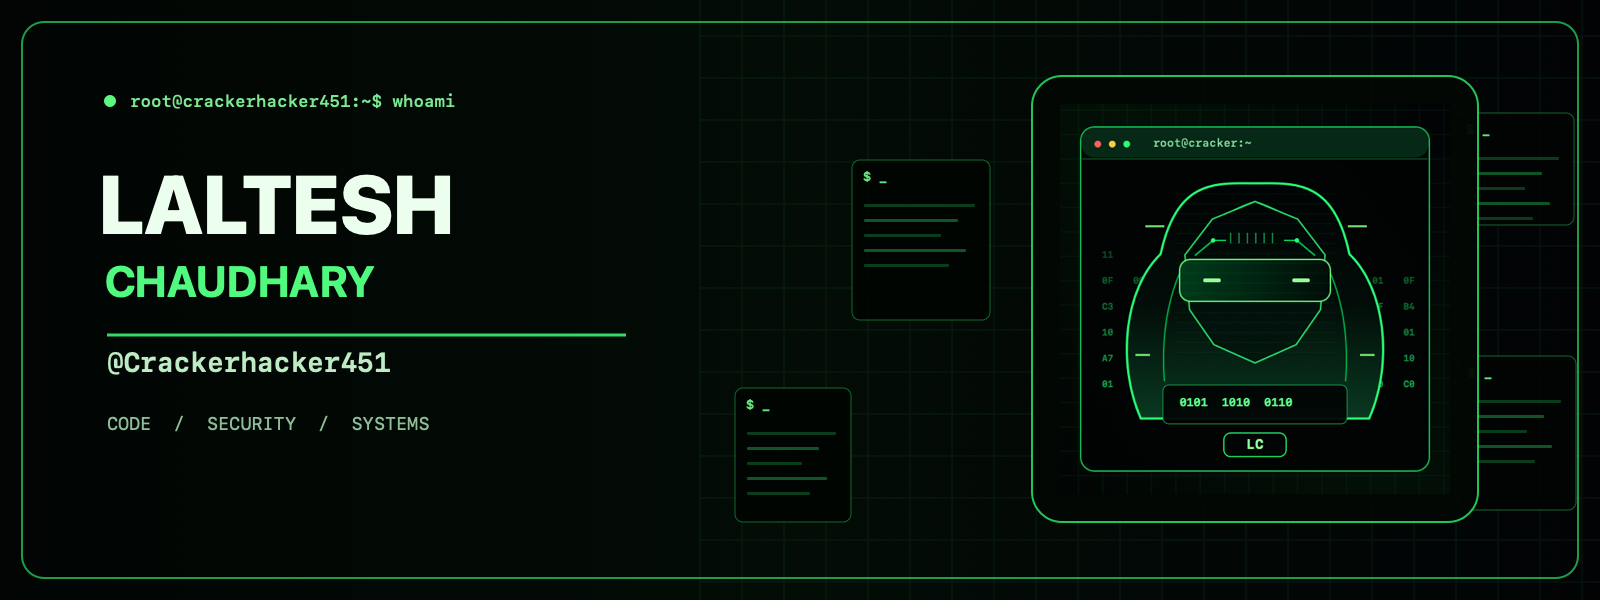
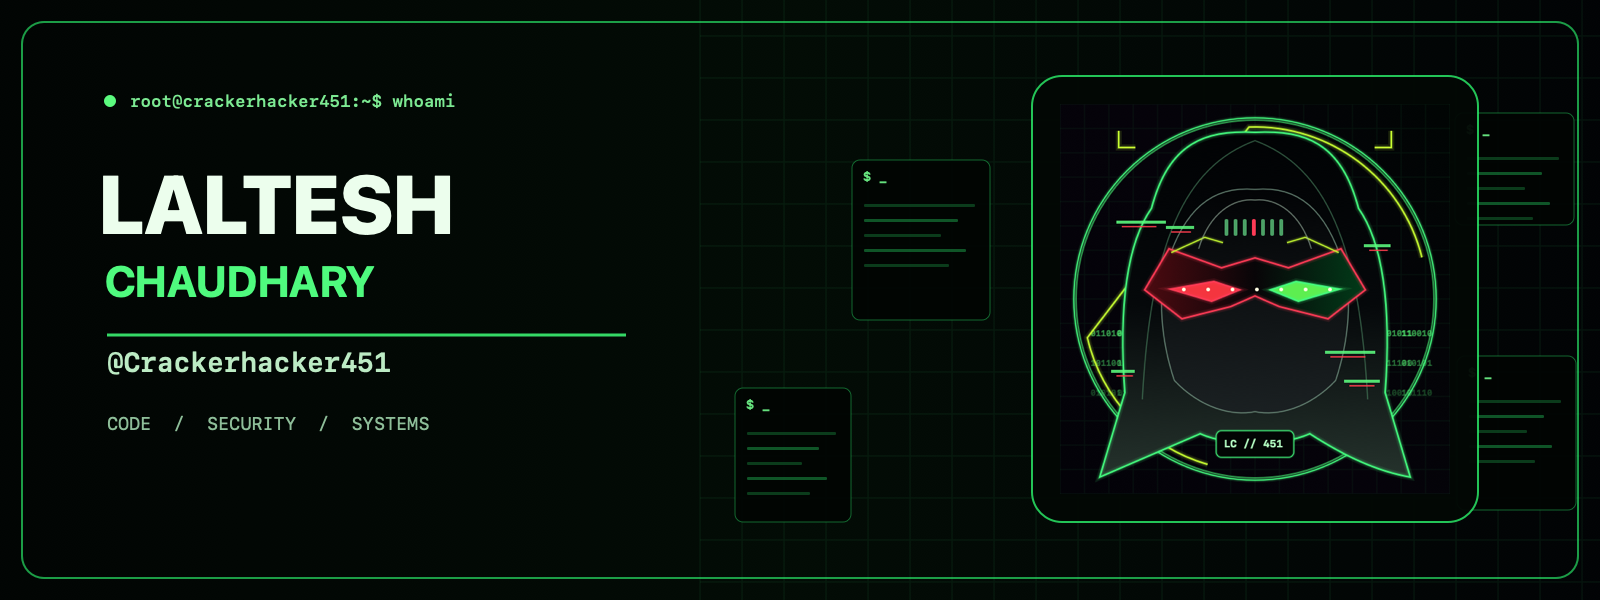
Redesign profile as a glitch hacker identity

Changed region(s): [[0.6562, 0.18, 0.9062, 0.81]]

diff --git a/generate-profile-banner.swift b/generate-profile-banner.swift
@@ -33,6 +33,12 @@ func fill(_ path: NSBezierPath, color: NSColor) {
     path.fill()
 }
 
+func neonStroke(_ path: NSBezierPath, color: NSColor, width: CGFloat) {
+    stroke(path, color: color.withAlphaComponent(0.12), width: width * 4)
+    stroke(path, color: color.withAlphaComponent(0.24), width: width * 2)
+    stroke(path, color: color, width: width)
+}
+
 func drawAvatar() -> NSBitmapImageRep {
     let size = 512
     guard let bitmap = NSBitmapImageRep(
@@ -53,155 +59,183 @@ func drawAvatar() -> NSBitmapImageRep {
     NSGraphicsContext.saveGraphicsState()
     NSGraphicsContext.current = context
     let canvas = NSRect(x: 0, y: 0, width: size, height: size)
-    NSGradient(colors: [color(0.008, 0.025, 0.018), color(0.012, 0.055, 0.03), color(0.005, 0.012, 0.02)])!
-        .draw(in: canvas, angle: 35)
+    NSGradient(colors: [color(0.014, 0.01, 0.035), color(0.025, 0.012, 0.04), color(0.004, 0.025, 0.018)])!
+        .draw(in: canvas, angle: 32)
 
-    let green = color(0.18, 1, 0.38)
-    let dimGreen = color(0.12, 0.62, 0.27, 0.7)
+    let green = color(0.25, 1, 0.42)
+    let acid = color(0.73, 1, 0.15)
+    let red = color(1, 0.12, 0.27)
+
     let grid = NSBezierPath()
     grid.lineWidth = 1
-    for x in stride(from: 24, through: size, by: 32) {
+    for x in stride(from: 0, through: size, by: 32) {
         grid.move(to: NSPoint(x: x, y: 0))
         grid.line(to: NSPoint(x: x, y: size))
     }
-    for y in stride(from: 24, through: size, by: 32) {
+    for y in stride(from: 0, through: size, by: 32) {
         grid.move(to: NSPoint(x: 0, y: y))
         grid.line(to: NSPoint(x: size, y: y))
     }
-    stroke(grid, color: color(0.1, 0.65, 0.25, 0.12), width: 1)
+    stroke(grid, color: color(0.16, 0.72, 0.29, 0.1), width: 1)
 
-    let terminal = NSBezierPath(roundedRect: NSRect(x: 27, y: 30, width: 458, height: 452), xRadius: 18, yRadius: 18)
-    fill(terminal, color: color(0.005, 0.018, 0.014, 0.94))
-    stroke(terminal, color: color(0.15, 0.92, 0.34, 0.75), width: 2)
-    let titleBar = NSBezierPath(roundedRect: NSRect(x: 28, y: 442, width: 456, height: 39), xRadius: 17, yRadius: 17)
-    fill(titleBar, color: color(0.035, 0.12, 0.07))
-    let divider = NSBezierPath()
-    divider.move(to: NSPoint(x: 29, y: 440))
-    divider.line(to: NSPoint(x: 483, y: 440))
-    stroke(divider, color: color(0.15, 0.82, 0.3, 0.56), width: 1)
-
-    for (index, dotColor) in [color(1, 0.28, 0.25), color(1, 0.76, 0.2), green].enumerated() {
-        let dot = NSBezierPath(ovalIn: NSRect(x: 45 + index * 19, y: 455, width: 9, height: 9))
-        fill(dot, color: dotColor)
-    }
-    let terminalTitle = "root@cracker:~" as NSString
-    terminalTitle.draw(
-        at: NSPoint(x: 122, y: 452),
-        withAttributes: [
-            .font: NSFont.monospacedSystemFont(ofSize: 15, weight: .medium),
-            .foregroundColor: color(0.46, 0.86, 0.54)
-        ]
-    )
-
-    let rainColumns: [(CGFloat, [String])] = [
-        (55, ["01", "A7", "10", "C3", "0F", "11"]),
-        (96, ["F0", "01", "7B", "10", "00"]),
-        (410, ["10", "E1", "0A", "FF", "01"]),
-        (451, ["C0", "10", "01", "B4", "0F"])
+    let rain = [
+        (CGFloat(40), "010101 101100 011010"),
+        (CGFloat(448), "101110 010101 110010"),
+        (CGFloat(75), "011001 100101 011101"),
+        (CGFloat(422), "110010 011100 101011")
     ]
-    for (columnX, items) in rainColumns {
-        for (index, text) in items.enumerated() {
-            let glyph = text as NSString
+    for (column, text) in rain {
+        for row in 0..<3 {
+            let glyph = String(text.dropFirst(row * 7).prefix(6)) as NSString
             glyph.draw(
-                at: NSPoint(x: columnX, y: 137 + CGFloat(index) * 34),
+                at: NSPoint(x: column, y: 126 + CGFloat(row) * 39),
                 withAttributes: [
-                    .font: NSFont.monospacedSystemFont(ofSize: 12, weight: .bold),
-                    .foregroundColor: color(0.15, 0.9, 0.34, max(0.16, 0.64 - CGFloat(index) * 0.07))
+                    .font: NSFont.monospacedSystemFont(ofSize: 11, weight: .bold),
+                    .foregroundColor: color(0.3, 1, 0.39, 0.24 + CGFloat(row) * 0.16)
                 ]
             )
         }
     }
 
+    let frame = NSBezierPath(ovalIn: NSRect(x: 21, y: 21, width: 470, height: 470))
+    stroke(frame, color: color(0.27, 1, 0.4, 0.58), width: 2)
+    let brokenRing = NSBezierPath()
+    brokenRing.appendArc(withCenter: NSPoint(x: 256, y: 256), radius: 226, startAngle: 14, endAngle: 92)
+    brokenRing.appendArc(withCenter: NSPoint(x: 256, y: 256), radius: 226, startAngle: 193, endAngle: 254)
+    neonStroke(brokenRing, color: acid, width: 2)
+
+    let outerRing = NSBezierPath(ovalIn: NSRect(x: 18, y: 18, width: 476, height: 476))
+    neonStroke(outerRing, color: green, width: 1.5)
+
     let hood = NSBezierPath()
-    hood.move(to: NSPoint(x: 106, y: 99))
-    hood.curve(to: NSPoint(x: 132, y: 315), controlPoint1: NSPoint(x: 73, y: 175), controlPoint2: NSPoint(x: 86, y: 271))
-    hood.curve(to: NSPoint(x: 256, y: 408), controlPoint1: NSPoint(x: 154, y: 414), controlPoint2: NSPoint(x: 204, y: 408))
-    hood.curve(to: NSPoint(x: 380, y: 315), controlPoint1: NSPoint(x: 308, y: 408), controlPoint2: NSPoint(x: 359, y: 414))
-    hood.curve(to: NSPoint(x: 406, y: 99), controlPoint1: NSPoint(x: 426, y: 271), controlPoint2: NSPoint(x: 439, y: 175))
+    hood.move(to: NSPoint(x: 52, y: 22))
+    hood.line(to: NSPoint(x: 85, y: 133))
+    hood.curve(to: NSPoint(x: 120, y: 375), controlPoint1: NSPoint(x: 76, y: 252), controlPoint2: NSPoint(x: 90, y: 333))
+    hood.curve(to: NSPoint(x: 256, y: 475), controlPoint1: NSPoint(x: 143, y: 463), controlPoint2: NSPoint(x: 192, y: 478))
+    hood.curve(to: NSPoint(x: 392, y: 375), controlPoint1: NSPoint(x: 320, y: 478), controlPoint2: NSPoint(x: 369, y: 463))
+    hood.curve(to: NSPoint(x: 427, y: 133), controlPoint1: NSPoint(x: 422, y: 333), controlPoint2: NSPoint(x: 436, y: 252))
+    hood.line(to: NSPoint(x: 460, y: 22))
+    hood.curve(to: NSPoint(x: 328, y: 79), controlPoint1: NSPoint(x: 415, y: 30), controlPoint2: NSPoint(x: 373, y: 50))
+    hood.curve(to: NSPoint(x: 184, y: 79), controlPoint1: NSPoint(x: 290, y: 62), controlPoint2: NSPoint(x: 222, y: 62))
     hood.close()
-    NSGradient(colors: [color(0.045, 0.17, 0.095), color(0.012, 0.045, 0.035), color(0.004, 0.017, 0.018)])!
+    NSGradient(colors: [color(0.11, 0.15, 0.13), color(0.025, 0.035, 0.04), color(0.005, 0.012, 0.02)])!
         .draw(in: hood, angle: 90)
-    stroke(hood, color: green, width: 3)
+    neonStroke(hood, color: green, width: 2)
 
-    let innerHood = NSBezierPath()
-    innerHood.move(to: NSPoint(x: 137, y: 148))
-    innerHood.curve(to: NSPoint(x: 256, y: 384), controlPoint1: NSPoint(x: 128, y: 267), controlPoint2: NSPoint(x: 174, y: 360))
-    innerHood.curve(to: NSPoint(x: 375, y: 148), controlPoint1: NSPoint(x: 338, y: 360), controlPoint2: NSPoint(x: 384, y: 267))
-    stroke(innerHood, color: color(0.1, 0.8, 0.27, 0.76), width: 2)
+    let shoulderSeam = NSBezierPath()
+    shoulderSeam.move(to: NSPoint(x: 108, y: 124))
+    shoulderSeam.curve(to: NSPoint(x: 256, y: 464), controlPoint1: NSPoint(x: 119, y: 332), controlPoint2: NSPoint(x: 164, y: 430))
+    shoulderSeam.curve(to: NSPoint(x: 404, y: 124), controlPoint1: NSPoint(x: 348, y: 430), controlPoint2: NSPoint(x: 393, y: 332))
+    stroke(shoulderSeam, color: color(0.28, 0.55, 0.37, 0.55), width: 1.5)
 
-    let face = polygon([
-        NSPoint(x: 164, y: 314), NSPoint(x: 170, y: 242), NSPoint(x: 202, y: 196),
-        NSPoint(x: 256, y: 172), NSPoint(x: 310, y: 196), NSPoint(x: 342, y: 242),
-        NSPoint(x: 348, y: 314), NSPoint(x: 312, y: 361), NSPoint(x: 256, y: 384),
-        NSPoint(x: 200, y: 361)
-    ])
-    NSGradient(colors: [color(0.018, 0.07, 0.05), color(0.003, 0.018, 0.018)])!
+    let face = NSBezierPath()
+    face.move(to: NSPoint(x: 150, y: 149))
+    face.curve(to: NSPoint(x: 140, y: 301), controlPoint1: NSPoint(x: 131, y: 206), controlPoint2: NSPoint(x: 129, y: 263))
+    face.curve(to: NSPoint(x: 256, y: 400), controlPoint1: NSPoint(x: 162, y: 371), controlPoint2: NSPoint(x: 197, y: 405))
+    face.curve(to: NSPoint(x: 372, y: 301), controlPoint1: NSPoint(x: 315, y: 405), controlPoint2: NSPoint(x: 350, y: 371))
+    face.curve(to: NSPoint(x: 362, y: 149), controlPoint1: NSPoint(x: 383, y: 263), controlPoint2: NSPoint(x: 381, y: 206))
+    face.curve(to: NSPoint(x: 256, y: 108), controlPoint1: NSPoint(x: 327, y: 112), controlPoint2: NSPoint(x: 285, y: 102))
+    face.curve(to: NSPoint(x: 150, y: 149), controlPoint1: NSPoint(x: 227, y: 102), controlPoint2: NSPoint(x: 185, y: 112))
+    face.close()
+    NSGradient(colors: [color(0.08, 0.095, 0.1), color(0.012, 0.018, 0.027)])!
         .draw(in: face, angle: 90)
-    stroke(face, color: color(0.2, 1, 0.4, 0.86), width: 2)
+    stroke(face, color: color(0.42, 0.57, 0.48, 0.75), width: 1.5)
 
-    let mask = NSBezierPath(roundedRect: NSRect(x: 157, y: 253, width: 198, height: 55), xRadius: 14, yRadius: 14)
-    NSGradient(colors: [color(0.02, 0.18, 0.08), color(0.005, 0.045, 0.035)])!.draw(in: mask, angle: 0)
-    stroke(mask, color: color(0.36, 1, 0.42, 0.9), width: 2)
+    let brow = NSBezierPath()
+    brow.move(to: NSPoint(x: 153, y: 271))
+    brow.curve(to: NSPoint(x: 359, y: 271), controlPoint1: NSPoint(x: 208, y: 307), controlPoint2: NSPoint(x: 304, y: 307))
+    stroke(brow, color: color(0.52, 0.65, 0.52, 0.46), width: 1.5)
 
-    for (x, y) in [(188.0, 278.0), (305.0, 278.0)] {
-        let eye = NSBezierPath(roundedRect: NSRect(x: x, y: y, width: 23, height: 5), xRadius: 2, yRadius: 2)
-        fill(eye, color: color(0.54, 1, 0.53))
+    let visor = NSBezierPath()
+    visor.move(to: NSPoint(x: 111, y: 268))
+    visor.line(to: NSPoint(x: 160, y: 230))
+    visor.line(to: NSPoint(x: 224, y: 246))
+    visor.line(to: NSPoint(x: 256, y: 260))
+    visor.line(to: NSPoint(x: 288, y: 246))
+    visor.line(to: NSPoint(x: 352, y: 230))
+    visor.line(to: NSPoint(x: 401, y: 268))
+    visor.line(to: NSPoint(x: 369, y: 322))
+    visor.line(to: NSPoint(x: 300, y: 297))
+    visor.line(to: NSPoint(x: 256, y: 310))
+    visor.line(to: NSPoint(x: 212, y: 297))
+    visor.line(to: NSPoint(x: 143, y: 322))
+    visor.close()
+    NSGradient(colors: [color(0.23, 0.025, 0.055), color(0.035, 0.025, 0.035), color(0.025, 0.18, 0.075)])!
+        .draw(in: visor, angle: 0)
+    neonStroke(visor, color: red, width: 2)
+
+    let leftLens = NSBezierPath()
+    leftLens.move(to: NSPoint(x: 145, y: 269))
+    leftLens.line(to: NSPoint(x: 199, y: 253))
+    leftLens.line(to: NSPoint(x: 236, y: 268))
+    leftLens.line(to: NSPoint(x: 202, y: 279))
+    leftLens.close()
+    fill(leftLens, color: color(1, 0.11, 0.2, 0.95))
+    neonStroke(leftLens, color: red, width: 2)
+
+    let rightLens = NSBezierPath()
+    rightLens.move(to: NSPoint(x: 367, y: 269))
+    rightLens.line(to: NSPoint(x: 313, y: 253))
+    rightLens.line(to: NSPoint(x: 276, y: 268))
+    rightLens.line(to: NSPoint(x: 310, y: 279))
+    rightLens.close()
+    fill(rightLens, color: color(0.34, 1, 0.26, 0.95))
+    neonStroke(rightLens, color: green, width: 2)
+    for x in stride(from: 160.0, through: 352.0, by: 32.0) {
+        let glint = NSBezierPath(ovalIn: NSRect(x: x, y: 266, width: 5, height: 5))
+        fill(glint, color: color(1, 1, 0.86))
     }
-    for x in stride(from: 224.0, through: 289.0, by: 11.0) {
-        let vent = NSBezierPath()
-        vent.move(to: NSPoint(x: x, y: 329))
-        vent.line(to: NSPoint(x: x, y: 343))
-        stroke(vent, color: dimGreen, width: 2)
+
+    let cheekGuard = NSBezierPath()
+    cheekGuard.move(to: NSPoint(x: 146, y: 317))
+    cheekGuard.line(to: NSPoint(x: 190, y: 337))
+    cheekGuard.line(to: NSPoint(x: 214, y: 330))
+    cheekGuard.move(to: NSPoint(x: 366, y: 317))
+    cheekGuard.line(to: NSPoint(x: 322, y: 337))
+    cheekGuard.line(to: NSPoint(x: 298, y: 330))
+    neonStroke(cheekGuard, color: acid, width: 1.5)
+
+    let lowerMask = NSBezierPath()
+    lowerMask.move(to: NSPoint(x: 182, y: 322))
+    lowerMask.curve(to: NSPoint(x: 256, y: 386), controlPoint1: NSPoint(x: 196, y: 369), controlPoint2: NSPoint(x: 228, y: 389))
+    lowerMask.curve(to: NSPoint(x: 330, y: 322), controlPoint1: NSPoint(x: 284, y: 389), controlPoint2: NSPoint(x: 316, y: 369))
+    stroke(lowerMask, color: color(0.55, 0.66, 0.57, 0.65), width: 1.5)
+    for (index, x) in stride(from: 216, through: 288, by: 12).enumerated() {
+        let vent = NSBezierPath(roundedRect: NSRect(x: x, y: 339, width: 5, height: 22), xRadius: 2, yRadius: 2)
+        fill(vent, color: index == 3 ? red : color(0.3, 0.72, 0.4, 0.82))
     }
 
-    let cheekCircuit = NSBezierPath()
-    cheekCircuit.move(to: NSPoint(x: 177, y: 313))
-    cheekCircuit.line(to: NSPoint(x: 201, y: 333))
-    cheekCircuit.line(to: NSPoint(x: 218, y: 333))
-    cheekCircuit.move(to: NSPoint(x: 335, y: 313))
-    cheekCircuit.line(to: NSPoint(x: 311, y: 333))
-    cheekCircuit.line(to: NSPoint(x: 294, y: 333))
-    stroke(cheekCircuit, color: color(0.1, 0.9, 0.32, 0.86), width: 2)
-    for x in [201.0, 311.0] {
-        fill(NSBezierPath(ovalIn: NSRect(x: x - 3, y: 330, width: 6, height: 6)), color: green)
+    let glitchSlices: [(CGFloat, CGFloat, CGFloat)] = [
+        (74, 355, 65), (139, 348, 37), (348, 184, 66),
+        (373, 146, 47), (67, 159, 31), (399, 324, 35)
+    ]
+    for (x, y, w) in glitchSlices {
+        let slice = NSBezierPath(rect: NSRect(x: x, y: y, width: w, height: 4))
+        fill(slice, color: color(0.32, 1, 0.42, 0.86))
+        let offset = NSBezierPath(rect: NSRect(x: x + 7, y: y - 5, width: w * 0.7, height: 2))
+        fill(offset, color: color(1, 0.13, 0.24, 0.84))
     }
 
-    let codePanel = NSBezierPath(roundedRect: NSRect(x: 135, y: 92, width: 242, height: 51), xRadius: 8, yRadius: 8)
-    fill(codePanel, color: color(0.004, 0.025, 0.018, 0.95))
-    stroke(codePanel, color: color(0.14, 0.78, 0.29, 0.82), width: 1)
-    let code = "0101  1010  0110" as NSString
-    code.draw(
-        at: NSPoint(x: 157, y: 111),
+    let badge = NSBezierPath(roundedRect: NSRect(x: 205, y: 48, width: 102, height: 35), xRadius: 7, yRadius: 7)
+    fill(badge, color: color(0.01, 0.025, 0.02))
+    neonStroke(badge, color: green, width: 1)
+    let initials = "LC // 451" as NSString
+    initials.draw(
+        at: NSPoint(x: 215, y: 58),
         withAttributes: [
-            .font: NSFont.monospacedSystemFont(ofSize: 15, weight: .bold),
-            .foregroundColor: color(0.32, 1, 0.45)
+            .font: NSFont.monospacedSystemFont(ofSize: 14, weight: .bold),
+            .foregroundColor: color(0.65, 1, 0.7)
         ]
     )
 
-    for y in stride(from: 186.0, through: 397.0, by: 13.0) {
-        let scanline = NSBezierPath()
-        scanline.move(to: NSPoint(x: 151, y: y))
-        scanline.line(to: NSPoint(x: 361, y: y))
-        stroke(scanline, color: color(0.16, 0.92, 0.33, 0.08), width: 1)
-    }
-    for (x, y, w) in [(112.0, 350.0, 25.0), (378.0, 350.0, 25.0), (99.0, 181.0, 19.0), (394.0, 181.0, 19.0)] {
-        let glitch = NSBezierPath(rect: NSRect(x: x, y: y, width: w, height: 3))
-        fill(glitch, color: color(0.45, 1, 0.42, 0.82))
-    }
-
-    let badge = NSBezierPath(roundedRect: NSRect(x: 215, y: 49, width: 82, height: 31), xRadius: 9, yRadius: 9)
-    fill(badge, color: color(0.003, 0.025, 0.016))
-    stroke(badge, color: green, width: 1.5)
-    let initials = "LC" as NSString
-    let attributes: [NSAttributedString.Key: Any] = [
-        .font: NSFont.monospacedSystemFont(ofSize: 18, weight: .bold),
-        .foregroundColor: color(0.52, 1, 0.55)
-    ]
-    let textSize = initials.size(withAttributes: attributes)
-    initials.draw(
-        at: NSPoint(x: (CGFloat(size) - textSize.width) / 2, y: 55),
-        withAttributes: attributes
-    )
+    let cornerMarks = NSBezierPath()
+    cornerMarks.move(to: NSPoint(x: 77, y: 477))
+    cornerMarks.line(to: NSPoint(x: 77, y: 455))
+    cornerMarks.line(to: NSPoint(x: 99, y: 455))
+    cornerMarks.move(to: NSPoint(x: 435, y: 477))
+    cornerMarks.line(to: NSPoint(x: 435, y: 455))
+    cornerMarks.line(to: NSPoint(x: 413, y: 455))
+    neonStroke(cornerMarks, color: acid, width: 2)
 
     NSGraphicsContext.restoreGraphicsState()
     return bitmap
